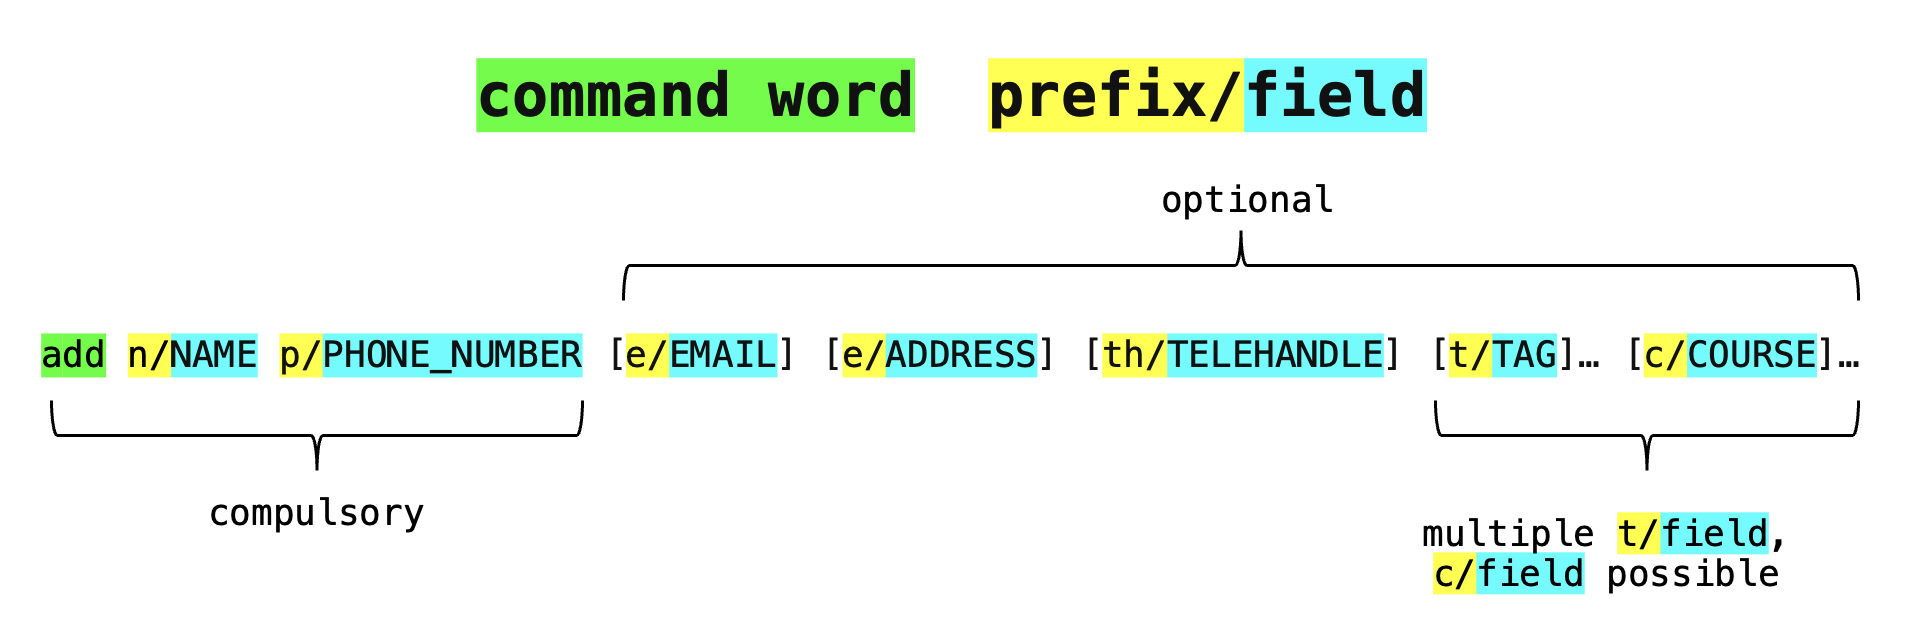
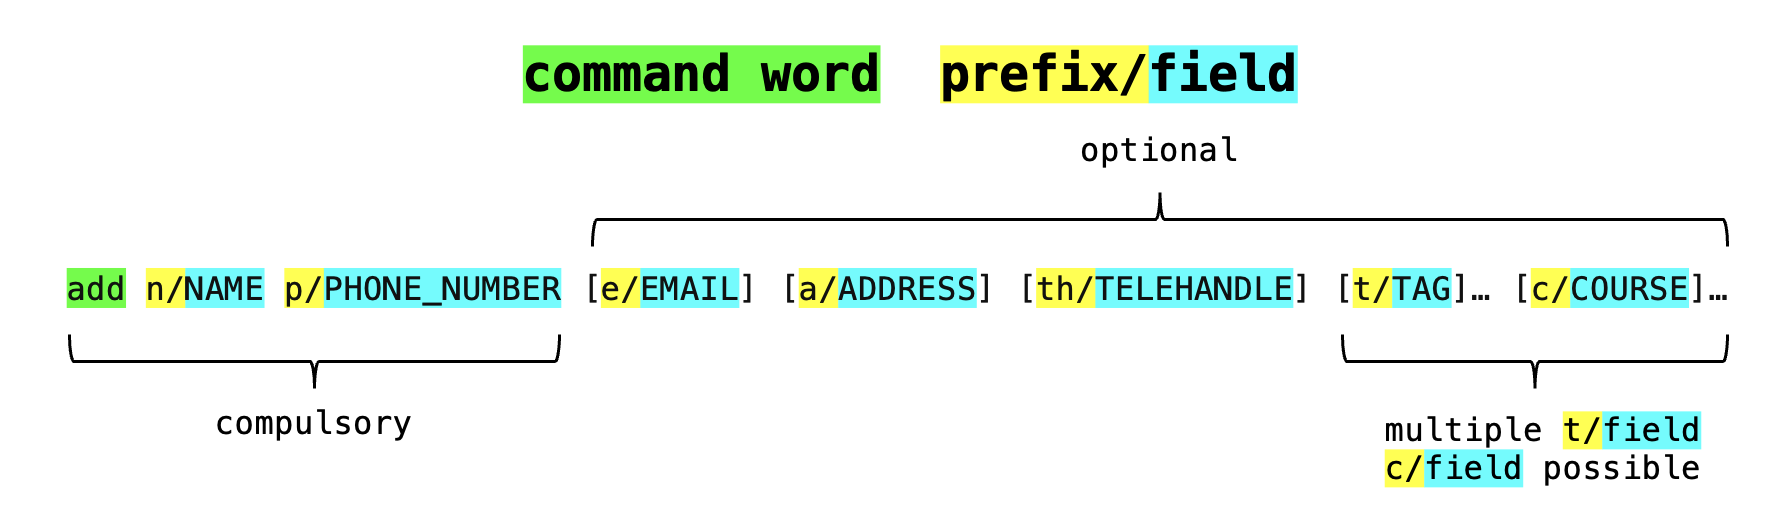
Add Command Format section in UG

diff --git a/docs/UserGuide.md b/docs/UserGuide.md
@@ -34,11 +34,14 @@ Whether you're a novice just beginning your journey into the world of NUS SoC st
 
 We will walk you through every step, from the basics of setting up your profile to advanced features that empower you to make the most of your SoC connections.
 
-**Novice Users:** For those taking their first steps with **NUSCoursemates**, our [Quick Start Guide](#quick-start) will be your trusted ally, providing a seamless entry into the world of SoC networking.
+**Novice Users:** <br>
+For those taking their first steps with **NUSCoursemates**, our [Quick Start Guide](#quick-start) will be your trusted ally, providing a seamless entry into the world of SoC networking.
 
-**Amateur Users:** You will find the answers you seek and step-by-step instructions for customizing **NUSCoursemates** to your preferences in our comprehensive [table of contents](#table-of-contents).
+**Amateur Users:** <br>
+You will find the answers you seek and step-by-step instructions for customizing **NUSCoursemates** to your preferences in our comprehensive [table of contents](#table-of-contents).
 
-**Seasoned Users:** We have streamlined your access to crucial information with our [command summary](#command-summary) and prefix summary, allowing you to find the commands you need with ease.
+**Seasoned Users:** <br>
+We have streamlined your access to crucial information with our [command summary](#command-summary) and prefix summary, allowing you to find the commands you need with ease.
 
 If you have any doubts while using **NUSCoursemates**, do head over to [FAQ](#faq) to view comprehensive answers to some frequently asked questions. You may also contact us at [_NUSCoursemates@gmail.com_](mailto:NUSCoursemates@gmail.com). 
 
@@ -166,78 +169,96 @@ Do not worry! CLI is definitely less scary than it sounds. In fact, this is all 
 
 Recall that the image above shows the [Command Box](#2-command-box) of **NUSCoursemates**. It is the _heart_ of **NUSCoursemates**. 
 
-Therefore, it is no surprise that you will be keying in commands, which are text-based inputs, in the [Command Box](#2-command-box) to execute different tasks. 
+Therefore, it is no surprise that you will be keying in **commands**, which are text-based inputs, in the Command Box to execute different tasks.
 
-While we know that you cannot wait to try out some new commands, let us first learn what a command consists of:
+The CLI offers several advantages, including:
+* **Faster** and more **efficient** operation
+* **Reduced memory usage** compared to non-CLI applications
 
- <div style="margin-top: 10px; margin-bottom: 10px">
-    <img src="images/CommandFormat2.png" alt="Command Format" width="650"/>
- </div>
+However, to fully benefit from the advantages of the CLI, you will have to:
+* Familiarise yourself with the various commands and their formats
+* Ensure **accuracy** in spelling and formatting
 
-A command is made up of multiple components: 
+Nevertheless, with this comprehensive user guide, you will be a proficient CLI user in no time.
 
-| Component    | Example    | Description                                                                                                                                                     |
-|--------------|------------|-----------------------------------------------------------------------------------------------------------------------------------------------------------------|
-| Command Word | `add`      | Specifies the task to be performed                                                                                                                              |
-| Prefix       | `n/`       | Indicates the field to be edited (e.g., name)                                                                                                                   |
-| Field        | `John Doe` | Represents the updated value or content. <br/> These values, which are provided by the user, are used to replace the `UPPER_CASE` letters in the command format |
-
-Additionally, certain symbols in the command format are used to indicate additional properties.
-For example (with reference to the `add` command above): 
-
-| Prefix/Field Format | Example             | Description                                                                         |
-|---------------------|---------------------|-------------------------------------------------------------------------------------|
-| `n/NAME`            | `n/John Doe`        | Denotes a compulsory `name` field                                                   |
-| `[e/EMAIL]`         | `e/johnd@gmail.com` | Denotes an optional `email` field with a maximum of one email for the student       |
-| `[t/TAG]…`         | `t/friend`          | Denotes an optional `tag` field with no limit on the number of tags for the student |
-
-Let us look at an example for the `add` command:
- <div style="margin-top: 10px; margin-bottom: 10px">
-    <img src="images/CommandFormat.png" alt="Command Format Example" width="650"/>
- </div>
-
-When adding your new connections, you would modify the fields accordingly. Note that the command words and prefixes are case-sensitive, and their spelling must be accurate. 
-
-Now that you have learnt about the components of a command, you are ready to use our application! Admittedly, we are as excited as you are! 
-
-You could try typing one of the following commands in the command box. Afterwards, press **'Enter'** to see the magic happen!
-
-* `list` : Lists all contacts.
-
-* `add n/John Doe p/98765432 e/johnd@example.com a/15 Computing Ave, #01-01 c/cs2101` : Adds a contact named `John Doe` to the Address Book.
-
-* `delete 3` : Deletes the 3rd contact shown in the current list.
-
-**Great job!** You are now ready to learn about the exciting [features](#features) we have designed for you. Enjoy!
+While we know that you cannot wait to try out some exciting commands, let us learn about commands in the [Command Format](#command-format) section.
 
 <div markdown="block" class="alert alert-info">
 **:information_source: Notes about CLI:**<br>
 * As a SoC student, you will encounter the CLI in some SoC courses.
-* It is beneficial for you to start learning the CLI early!
+* Therefore, it is beneficial for you to start learning the CLI early!
+</div>
+
+[Back to Table of Contents](#table-of-contents)
+
+## Command Format
+
+In the [previous section](#using-the-command-line-interface--cli-), we learnt that commands must be spelt and formatted correctly.
+
+In this section, let us explore the components that constitute a command in **NUSCoursemates**:
+
+| Component    | Example    | Description                                                                                                                                                     |
+|--------------|------------|-----------------------------------------------------------------------------------------------------------------------------------------------------------------|
+| Command word | `add`      | Specifies the task to be performed                                                                                                                              |
+| Prefix       | `n/`       | Indicates the field to be edited (e.g., name)                                                                                                                   |
+| Field        | `John Doe` | Represents the updated value or content. <br/> These values, which are provided by the user, are used to replace the `UPPER_CASE` letters in the command format |
+
+Each feature has a unique command format composed of up to three components. The command format for each feature is explicitly described in the [Features](#features) section below.
+
+Using the format for `add` command as an example, we can deconstruct it into the three components:
+ <div style="margin-top: 10px; margin-bottom: 10px">
+    <img src="images/CommandFormat2.png" alt="Command Format" width="650"/>
+ </div> 
+
+Additionally, notice how symbols surrounding the prefixes and fields are used to indicate additional properties for the respective fields.
+
+For example (with reference to the `add` command above): 
+
+| Symbol  | Description                                           | Example        | Interpretation                                    |
+|---------|-------------------------------------------------------|----------------|---------------------------------------------------|
+| None    | Compulsory field                                      | `n/NAME`       | The student's name is required                    |
+| `[ ]`   | Optional field with a maximum of one entry            | `[e/EMAIL]`    | The student can have at most one email            |
+| `[ ]…` | Optional field with no limit on the number of entries | `[c/COURSE]…` | The student can have a variable number of courses |
+
+You would be happy to learn that the various `prefix/field` can be entered in any order.<br>
+For example, if the command specifies `n/NAME p/PHONE_NUMBER`, `p/PHONE_NUMBER n/NAME` is also acceptable.
+
+Now that you know what constitutes a command, you can proceed to add your new connections to **NUSCoursemates**.
+
+If you have made a new friend, `John Doe`, you would modify the fields accordingly. The resulting command should look like this:
+
+ <div style="margin-top: 10px; margin-bottom: 10px">
+    <img src="images/CommandFormatExample.png" alt="Command Format Example" width="650"/>
+ </div>
+
+Type the command above into the [Command Box](#2-command-box) and press **'Enter'** to see the magic happen!
+
+You are now ready to use our application. Admittedly, we are as excited as you are!
+
+Practice makes perfect! Here are more commands you should try:
+
+* `list` : Lists all contacts.
+
+* `delete 3` : Deletes the 3rd contact shown in the current list.
+
+* `add n/Mary Tan p/98865432 e/marytan@example.com a/15 Computing Ave, #01-01 c/cs2101` : Adds a student named `Mary Tan`.
+
+**Great job!** You may proceed to learn about the exciting [features](#features) we have designed for you. Enjoy!
+
+<div markdown="block" class="alert alert-info">
+
+**:information_source: More notes about the command format:**<br>
+
+* Extraneous characters for commands made up of a command word only (such as `help`, `list`, `exit` and `clear`) will be ignored.<br>
+  e.g. if the command specifies `help 123`, it will be interpreted as `help`.
+
+* If you are using a PDF version of this document, be careful when copying and pasting commands that span multiple lines! Space characters surrounding line-breaks may be omitted when copied over to the application.
 </div>
 
 [Back to Table of Contents](#table-of-contents)
 
 --------------------------------------------------------------------------------------------------------------------
-## Features
-
-<div markdown="block" class="alert alert-info">
-
-**:information_source: Notes about the command format:**<br>
-
-* Parameters can be in any order.<br>
-  e.g. if the command specifies `n/NAME p/PHONE_NUMBER`, `p/PHONE_NUMBER n/NAME` is also acceptable.
-
-* Extraneous parameters for commands that do not take in parameters (such as `help`, `list`, `exit` and `clear`) will be ignored.<br>
-  e.g. if the command specifies `help 123`, it will be interpreted as `help`.
-
-* If you are using a PDF version of this document, be careful when copying and pasting commands that span multiple lines as space characters surrounding line-breaks may be omitted when copied over to the application.
-</div>
-
-[Back to Table of Contents](#table-of-contents)
-
-----------
-## Managing Student Profiles
+## Features - Managing Student Profiles
 In the realm of student profiles, NUSCoursemates redefines the way you manage and connect with fellow students. It's not just about data; it's about fostering meaningful connections and streamlining your student network. NUSCoursemates offers a range of features designed with you, the student, in mind. 
 
 These features make it easy to add new friends, maintain your contact list, and engage with your academic community. All your student profiles are neatly organized for a seamless and user-centric experience.
@@ -332,7 +353,7 @@ Format: `edit INDEX [n/NAME] [p/PHONE] [e/EMAIL] [a/ADDRESS] [th/TELEHANDLE] [t/
 | Required Format                    | Description                                               | Special Notes                                                                     |
 |------------------------------------|-----------------------------------------------------------|-----------------------------------------------------------------------------------|
 | `c/add-[COURSE_TO_ADD]`            | Adds a course for the student                             | If the student already has the course, the course will not be added again.        |
-| `c/add-[COURSE_TO_DELETE]`         | Deletes a course for the student                          | If the student does not have the course, an error message will be displayed.      |
+| `c/del-[COURSE_TO_DELETE]`         | Deletes a course for the student                          | If the student does not have the course, an error message will be displayed.      |
 | `c/[ORIGINAL_COURSE]-[NEW_COURSE]` | Changes `ORIGINAL_COURSE` to `NEW_COURSE` for the student | If the student does not `ORIGINAL_COURSE`, an error message will be displayed.    |
 
 <div markdown="block" class="alert alert-warning">
@@ -389,7 +410,7 @@ Examples:
 
 ![delete student](images/deleteFeature.png)
 
-## Viewing Student Profiles
+## Features - Viewing Student Profiles
 In NUSCoursemates, your journey begins with exploring student profiles. Our user-centric approach puts you in control, making it a breeze to view and connect with your fellow students. 
 
 Let's delve into the specifics of how to effortlessly access and make the most of student profiles.
@@ -501,7 +522,7 @@ Students with multiple tags will be sorted by the tag with the greatest importan
 For example, a student with both 'Friend' and 'Emergency' tags will be placed in the address book with other students tagged as 'Friend'
 </div>
 
-## Clearing Student Profiles
+## Features - Clearing Student Profiles
 
 In NUSCoursemates, we understand the need for flexibility and ease when it comes to managing your student profiles. Clearing profiles should be a straightforward process, and we've designed it to be just that. Let's explore how you can effortlessly clear profiles when necessary.
 
